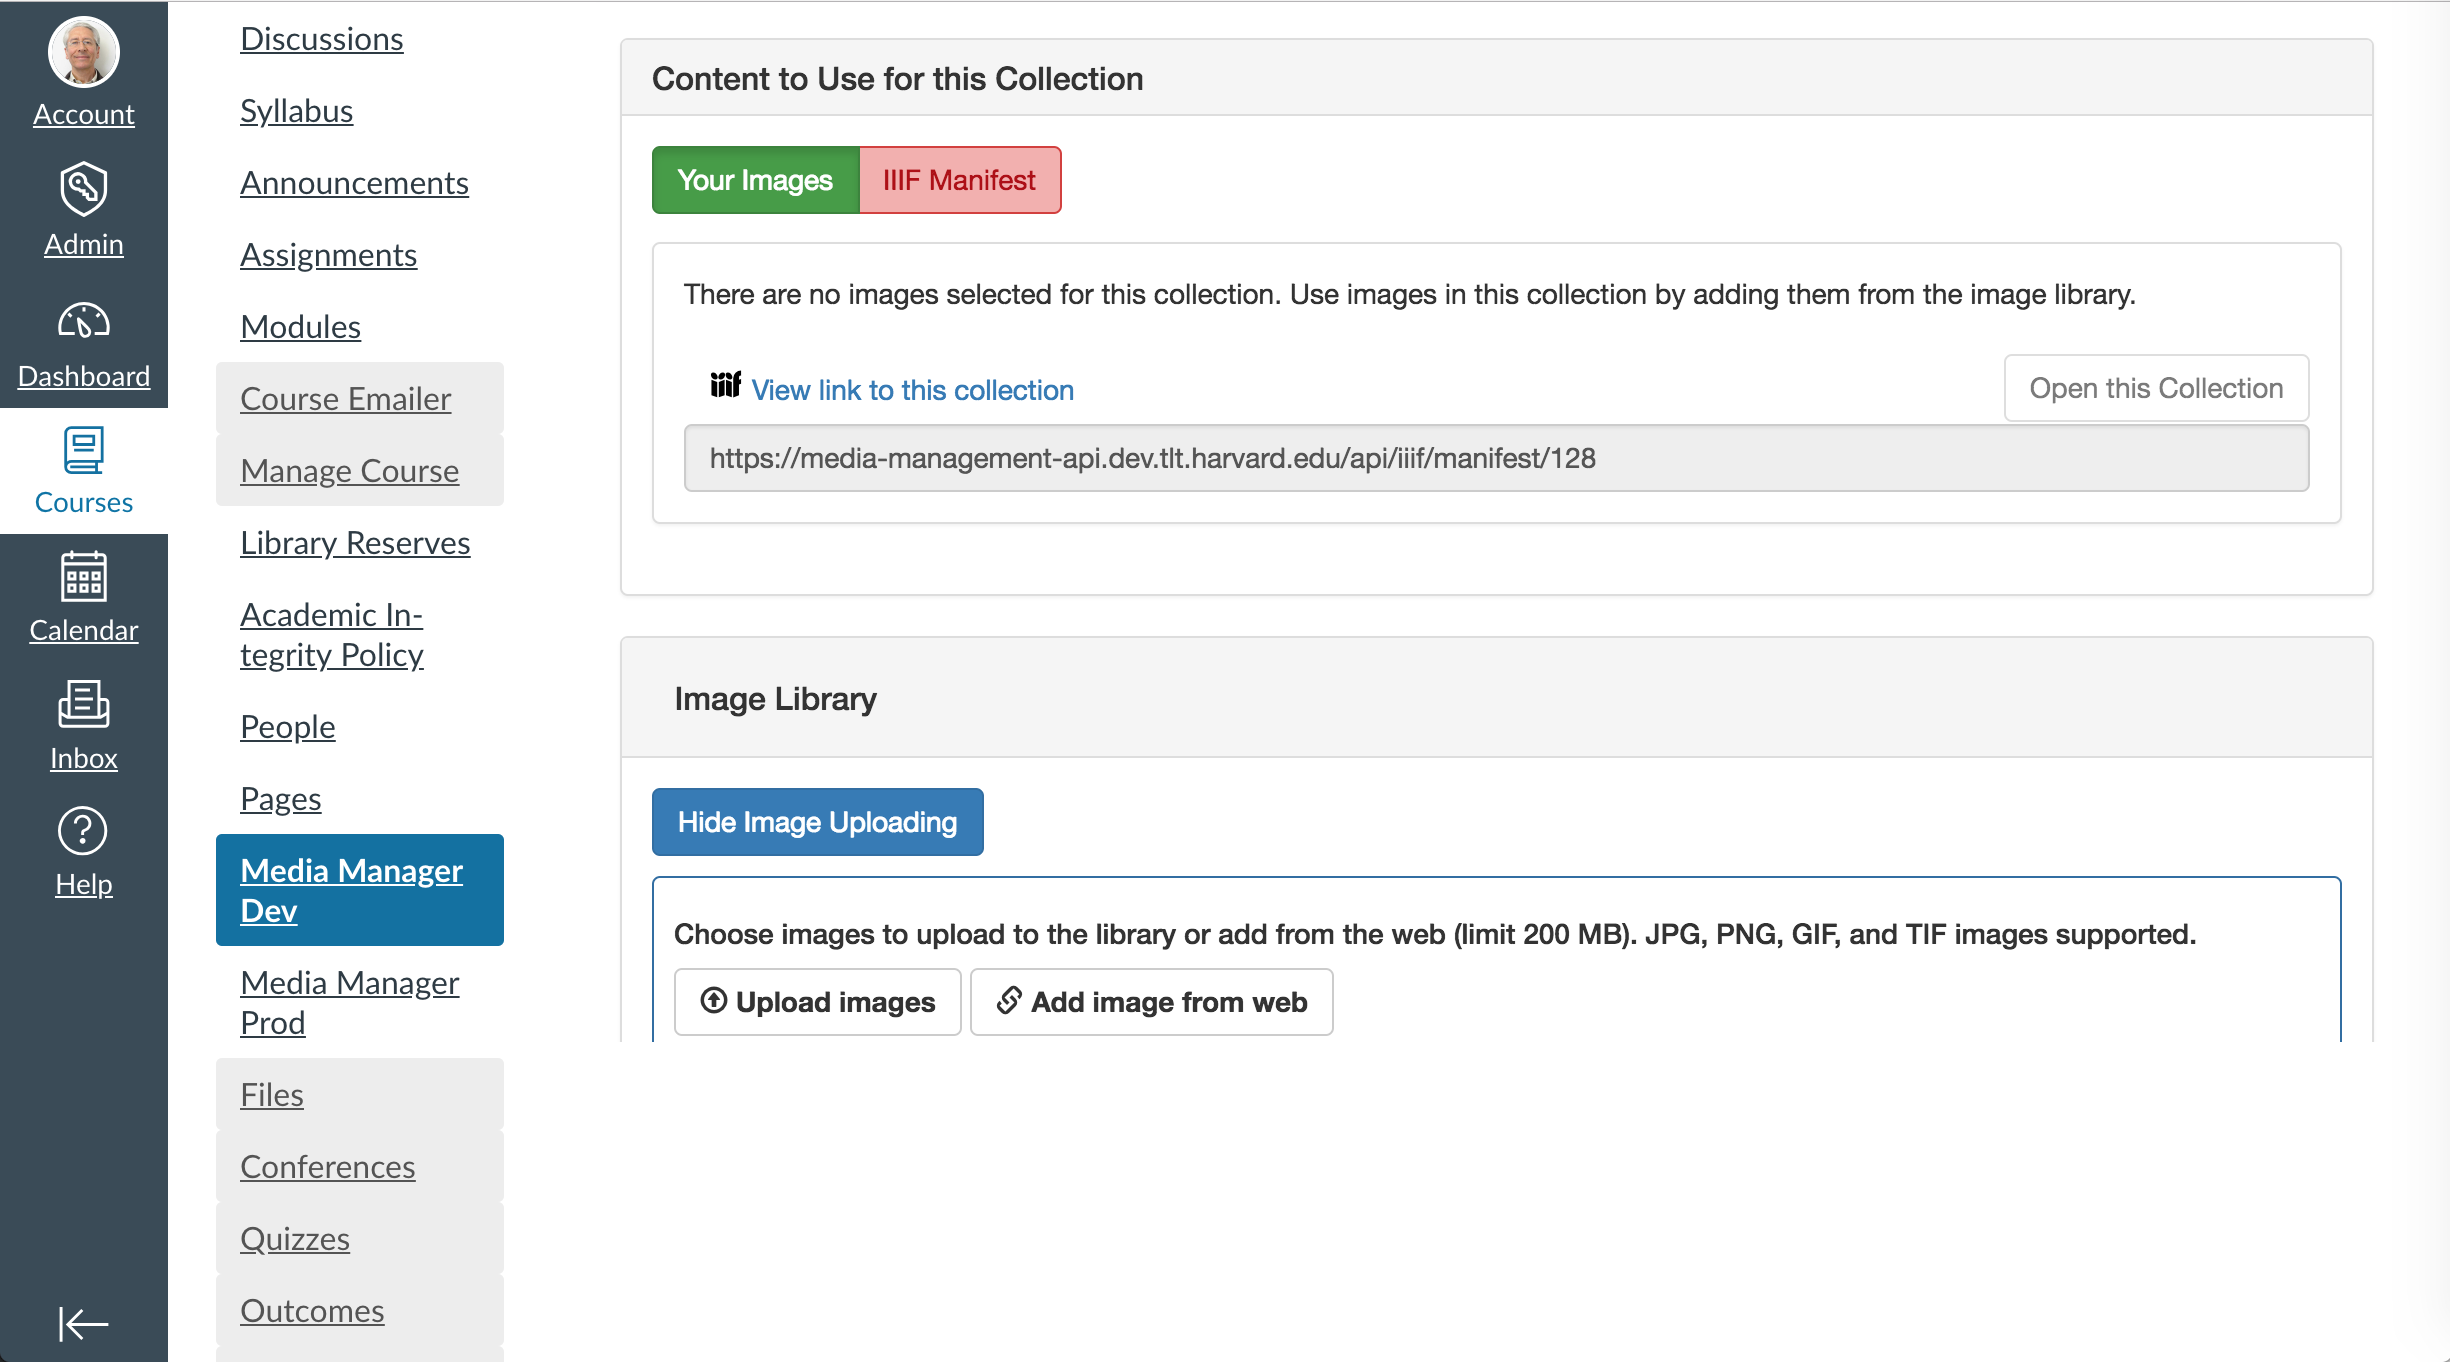
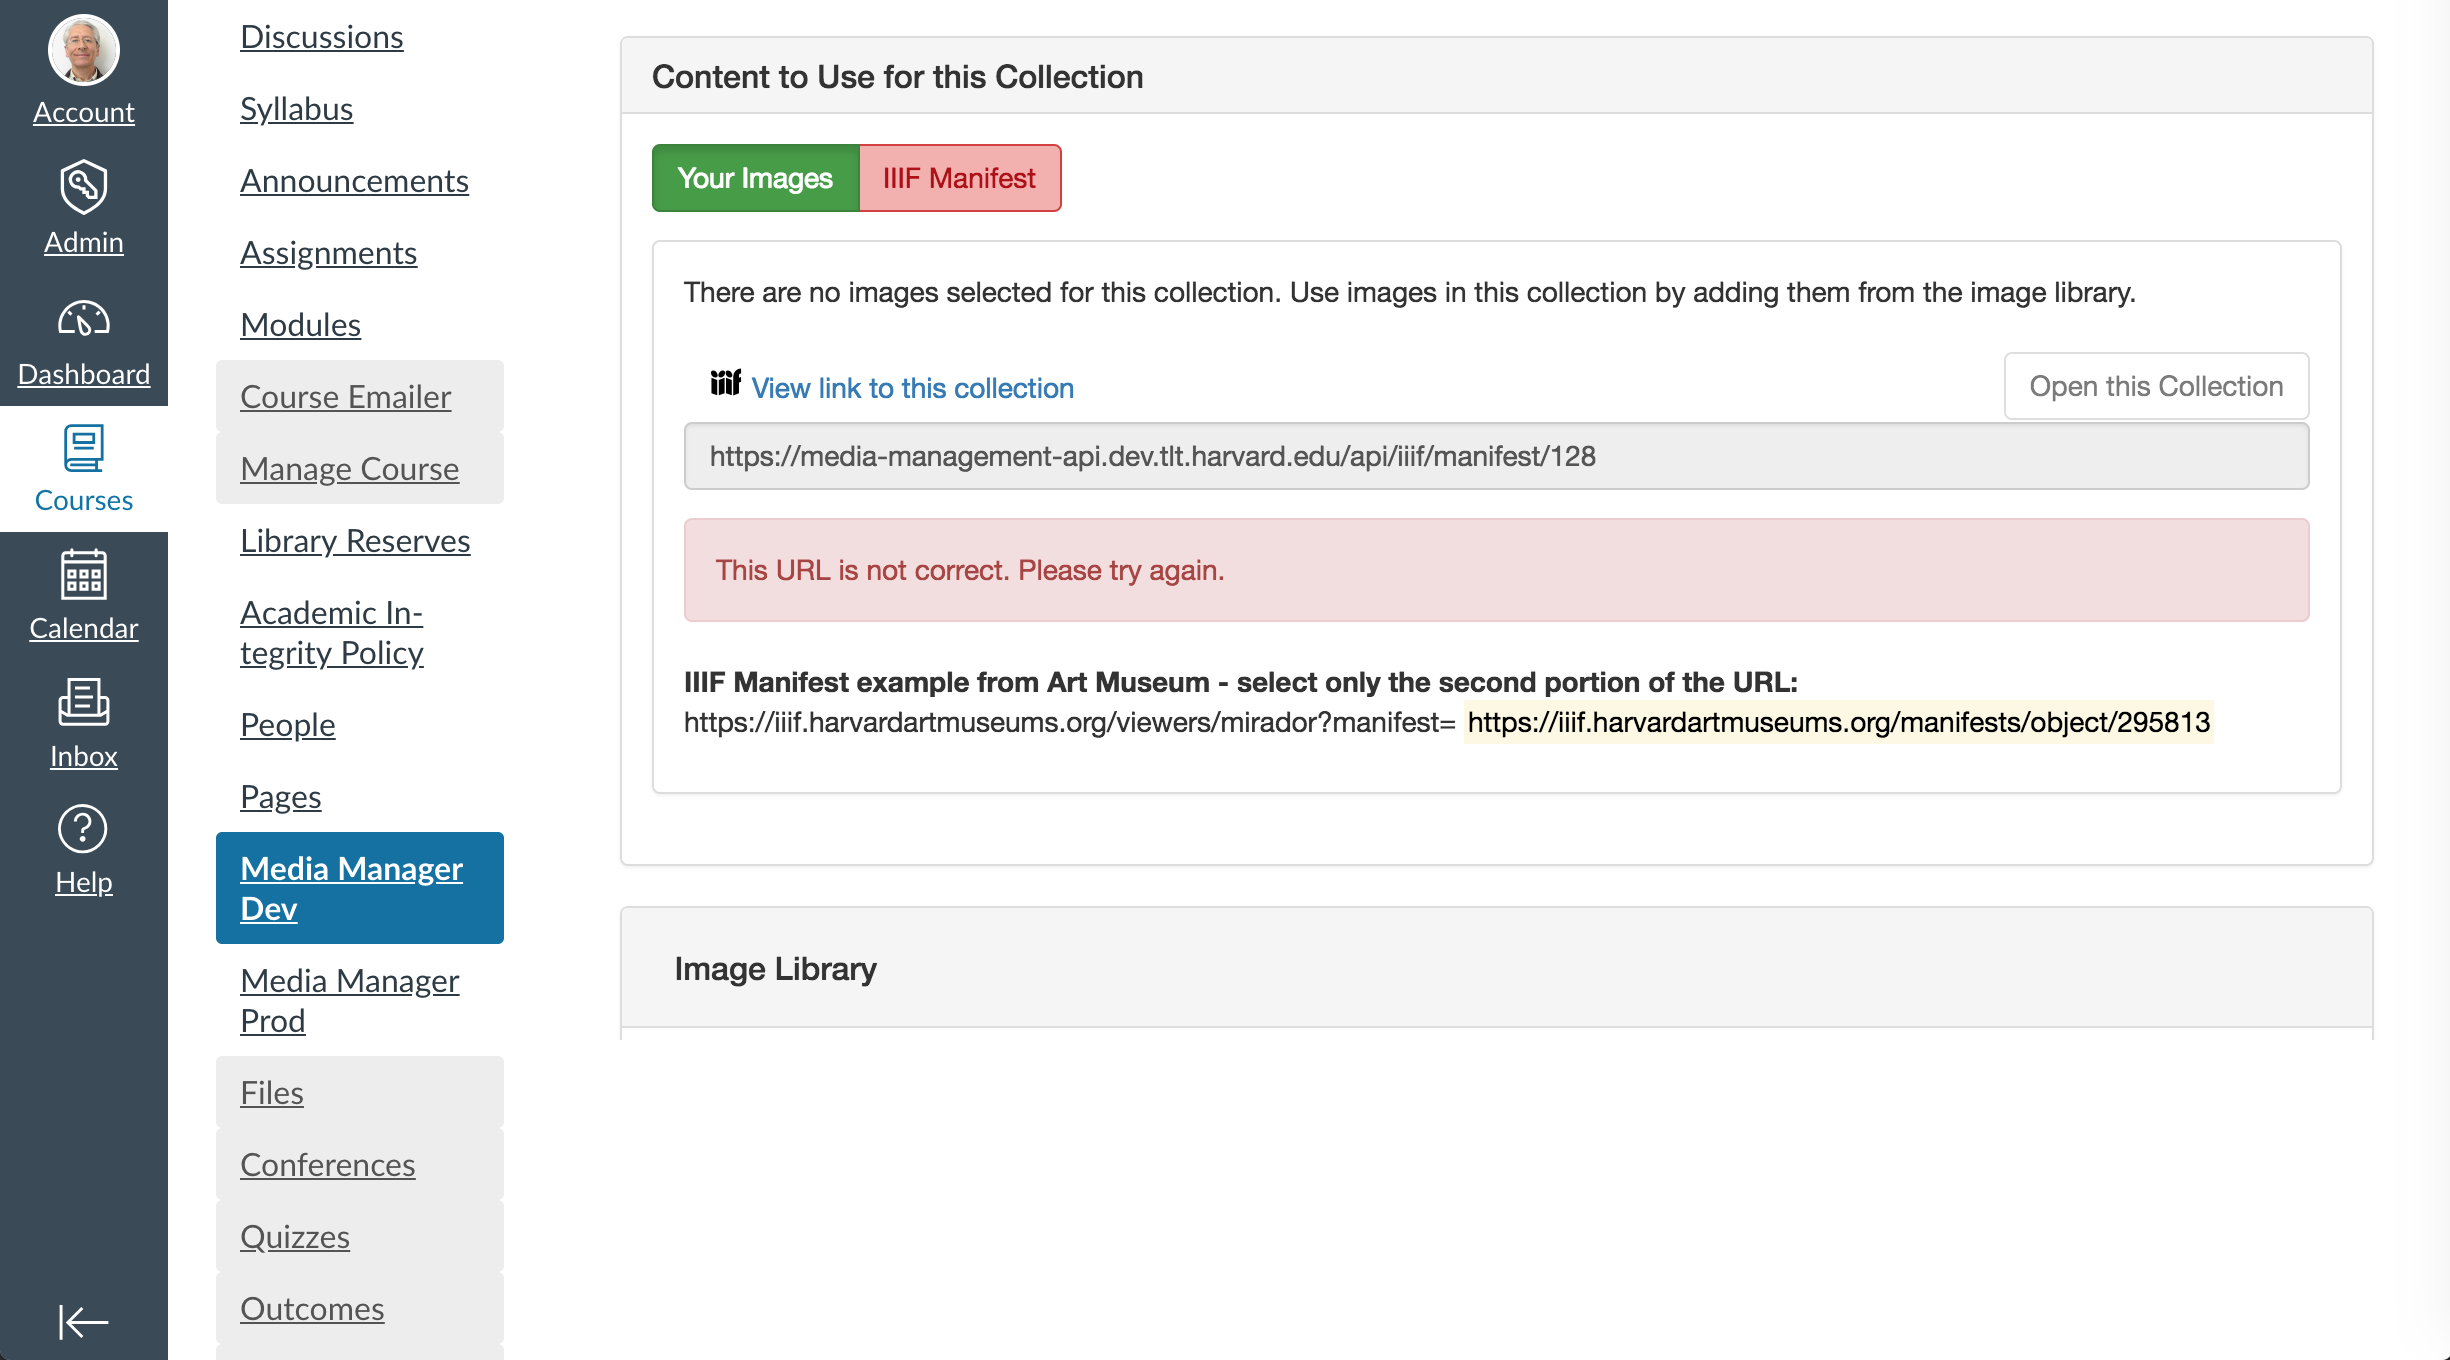
Add files via upload
MediaManager-IIIF_hint - screen capture and UI code of proposed interface

diff --git a/MediaManager-IIIF_hint/index.html b/MediaManager-IIIF_hint/index.html
@@ -1,4 +1,4 @@
-
+<!--There are 3 UI comments in this commit-->
 <div class="panel-body">
     <div ng-show="$ctrl.isLoading" class="ng-hide">
         <span us-spinner="{top:'50%'}" class="ng-scope"><div class="spinner" role="progressbar"
@@ -45,11 +45,30 @@
                                                                                         style="margin-right: 5px;"></i>View
             link to this collection
         </button>
-        <button type="button" class="pull-right btn btn-default" ng-disabled="$ctrl.images.length == 0"
+
+<!--UI comment #1 - changing to class btn-primary-->
+        <button type="button" class="pull-right btn btn-primary" ng-disabled="$ctrl.images.length == 0"
                 ng-click="$ctrl.openCollection()" disabled="disabled">Open this Collection
         </button>
     </div>
     <div ng-show="$ctrl.showIiifUrl" class="collection__iiifurl" style=""><input type="text" class="form-control"
                                                                                  value="https://media-management-api.dev.tlt.harvard.edu/api/iiif/manifest/128"
                                                                                  readonly=""></div>
+
+
+<!--UI comment #2 - adding the alert-->
+    <div class="alert alert-danger" role="alert" style="margin-top: 1em">
+        This URL is not correct. Please try again.
+    </div>
+
+<!--UI comment #3 - adding the URL hint-->
+    <div style="margin-top: 1em">
+        <p>
+            <strong>IIIF Manifest example from Art Museum - select only the second portion of the URL:</strong>
+        <br>
+            https://iiif.harvardartmuseums.org/viewers/mirador?manifest=
+            <mark>https://iiif.harvardartmuseums.org/manifests/object/295813</mark>
+        </p>
+    </div>
+
 </div>
